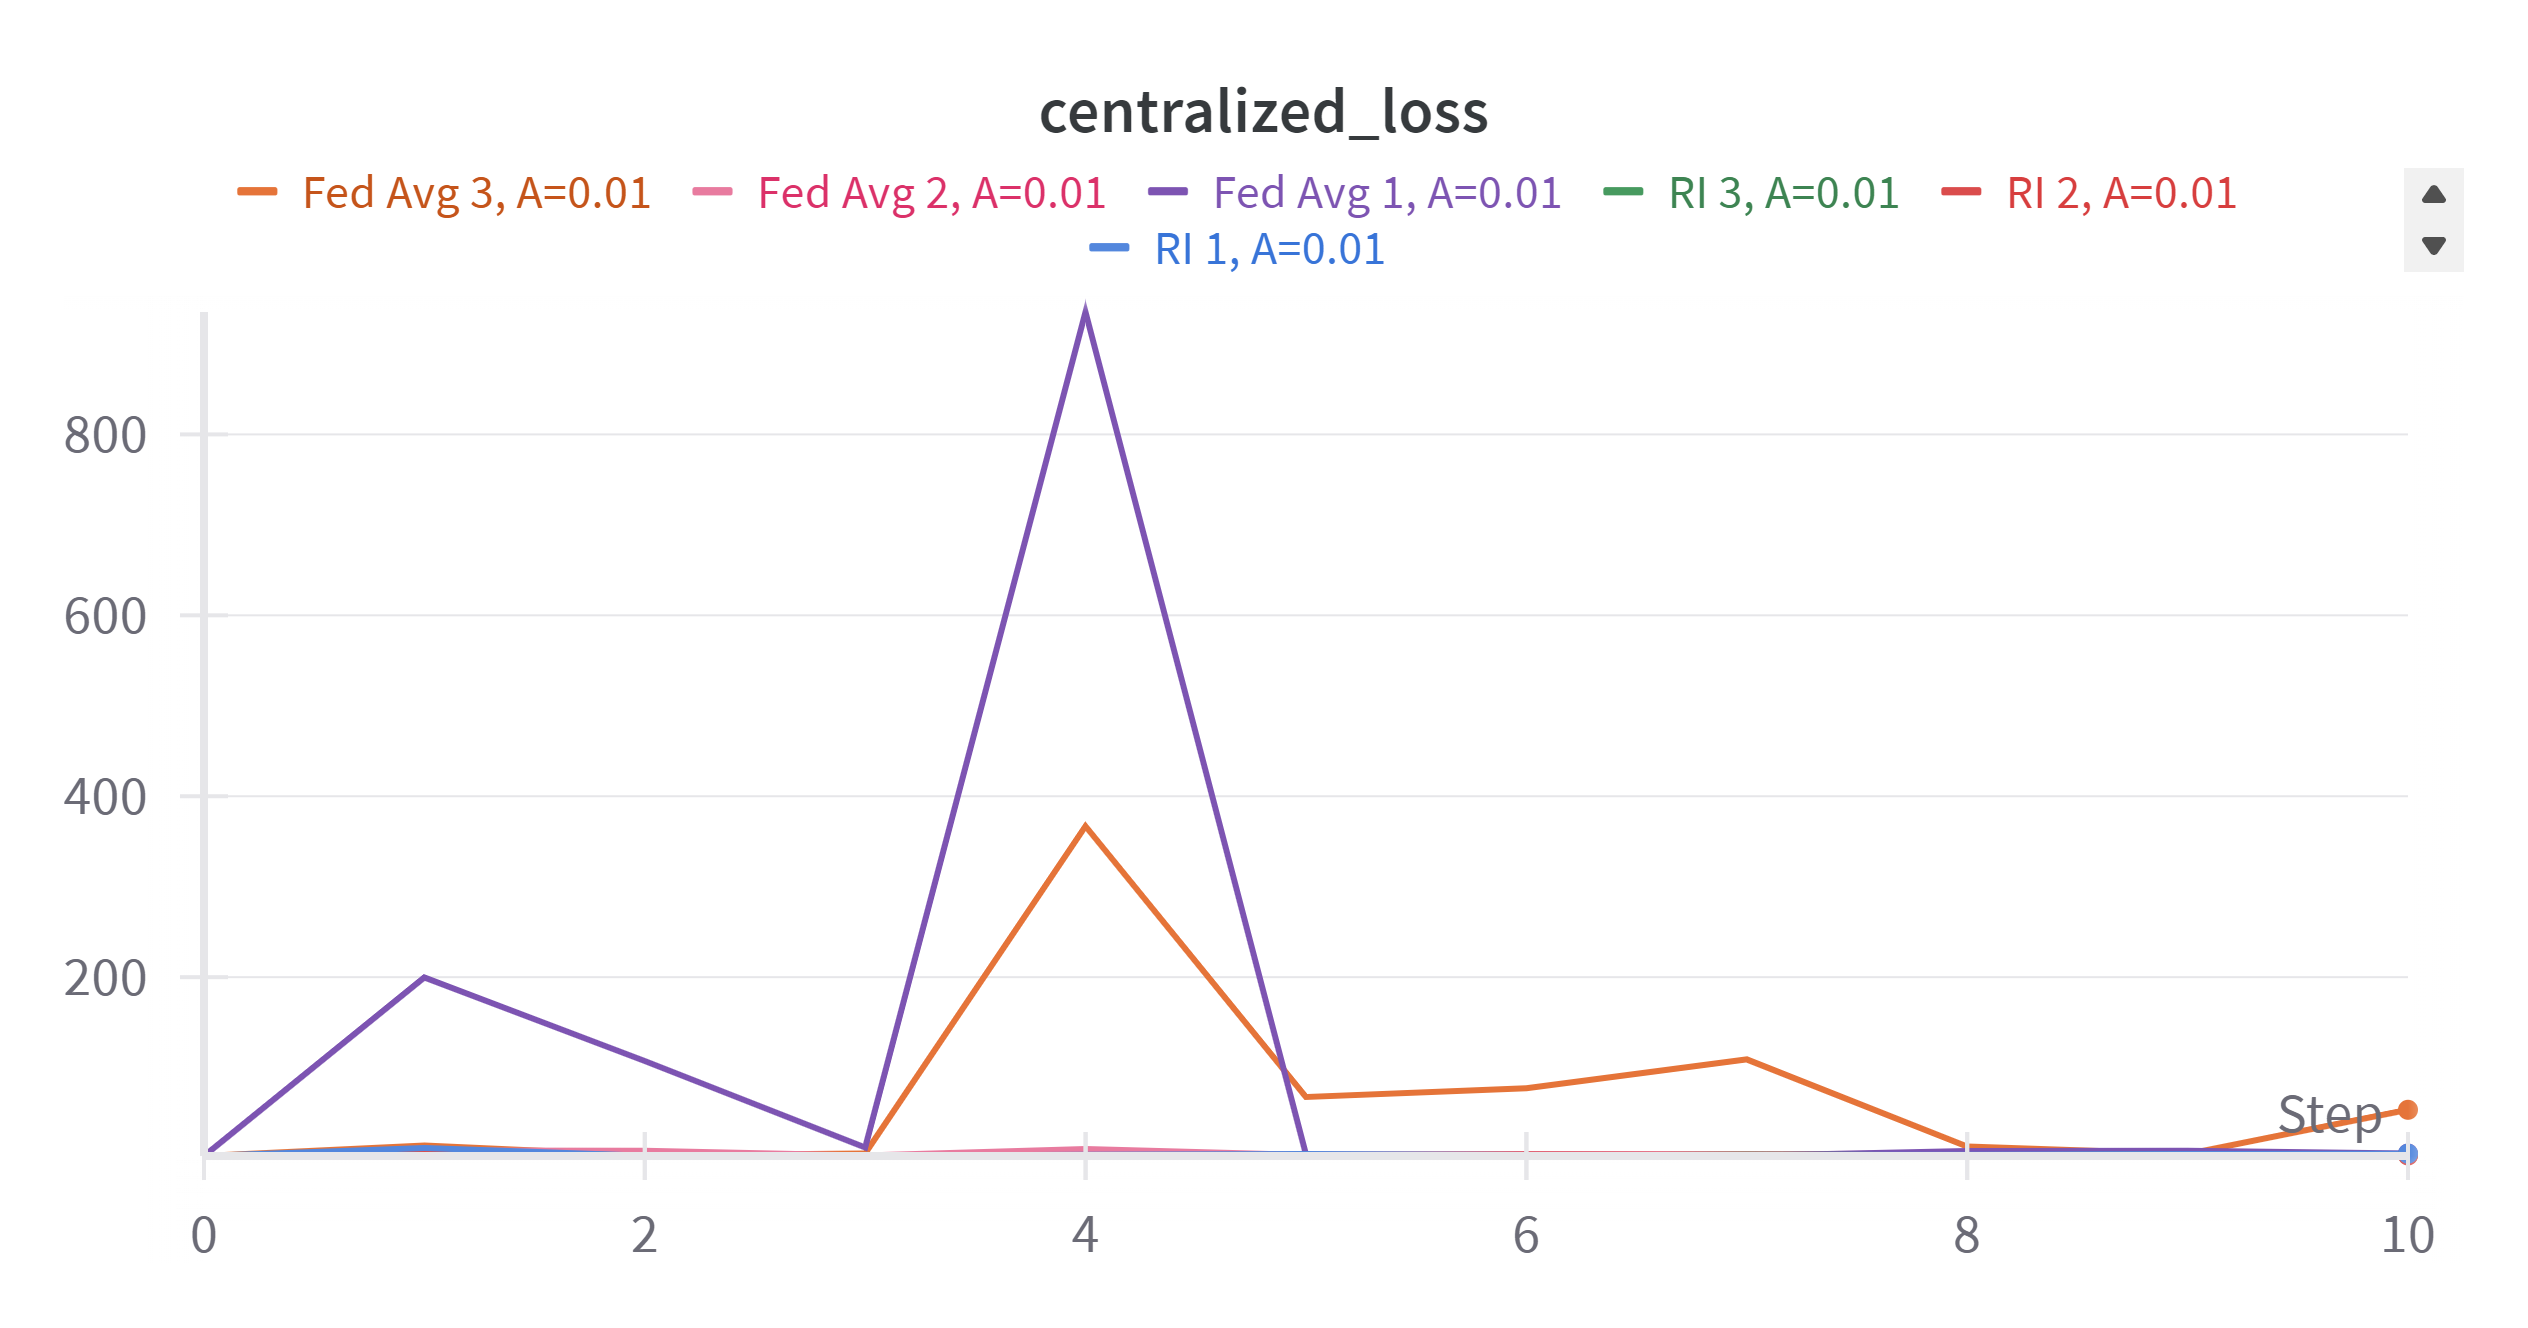
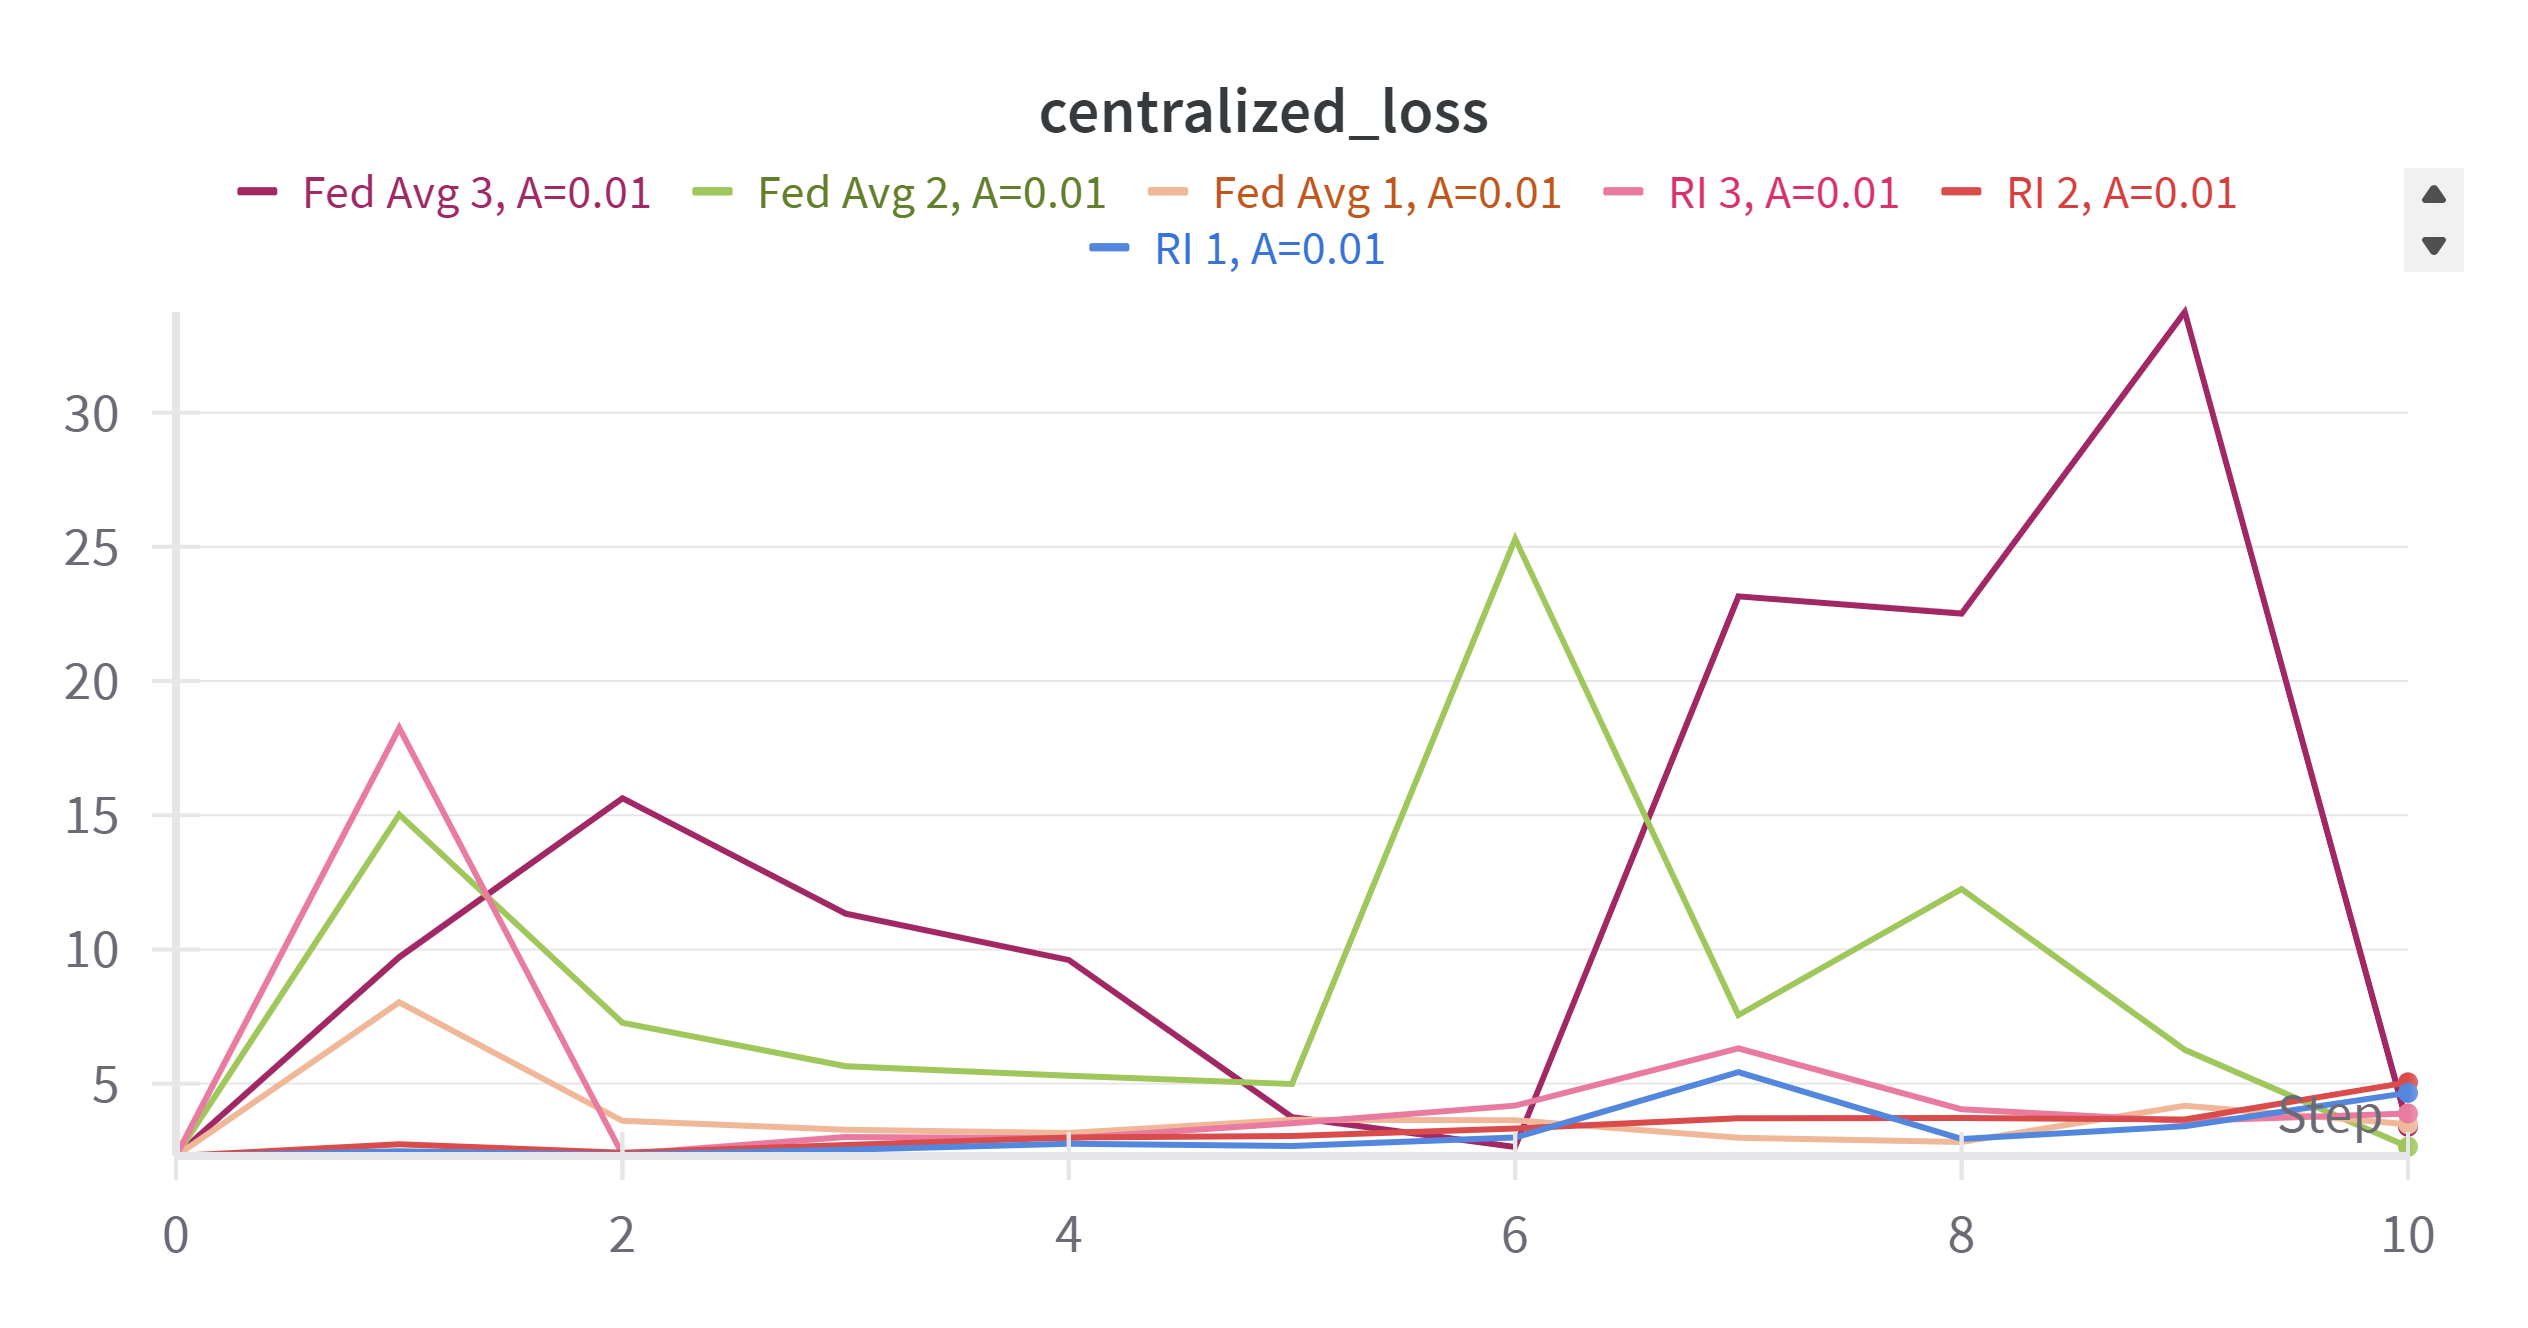
updates

diff --git a/baselines/cifar_10_baseline/task.py b/baselines/cifar_10_baseline/task.py
@@ -50,7 +50,7 @@ def load_data(partition_id: int, num_partitions: int):
         partitioner = DirichletPartitioner(
             num_partitions=num_partitions,
             partition_by="label",
-            alpha=0.01,  # Lower alpha creates more non-IID partitioning
+            alpha=0.5,  # Lower alpha creates more non-IID partitioning
             seed=42,
         )
         fds = FederatedDataset(
